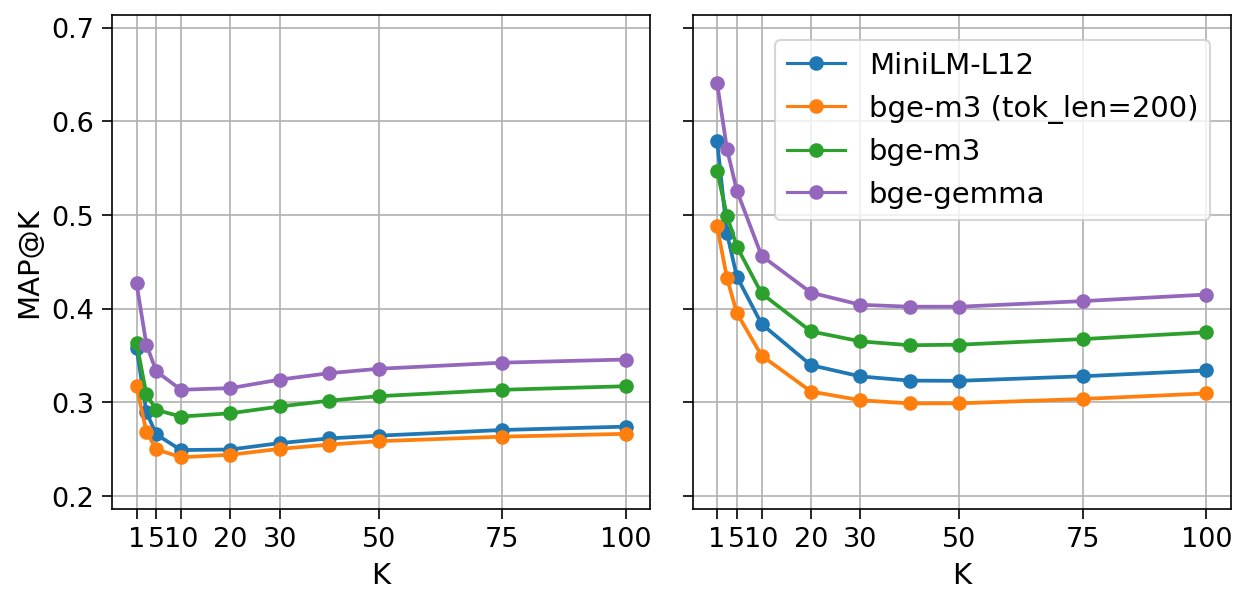
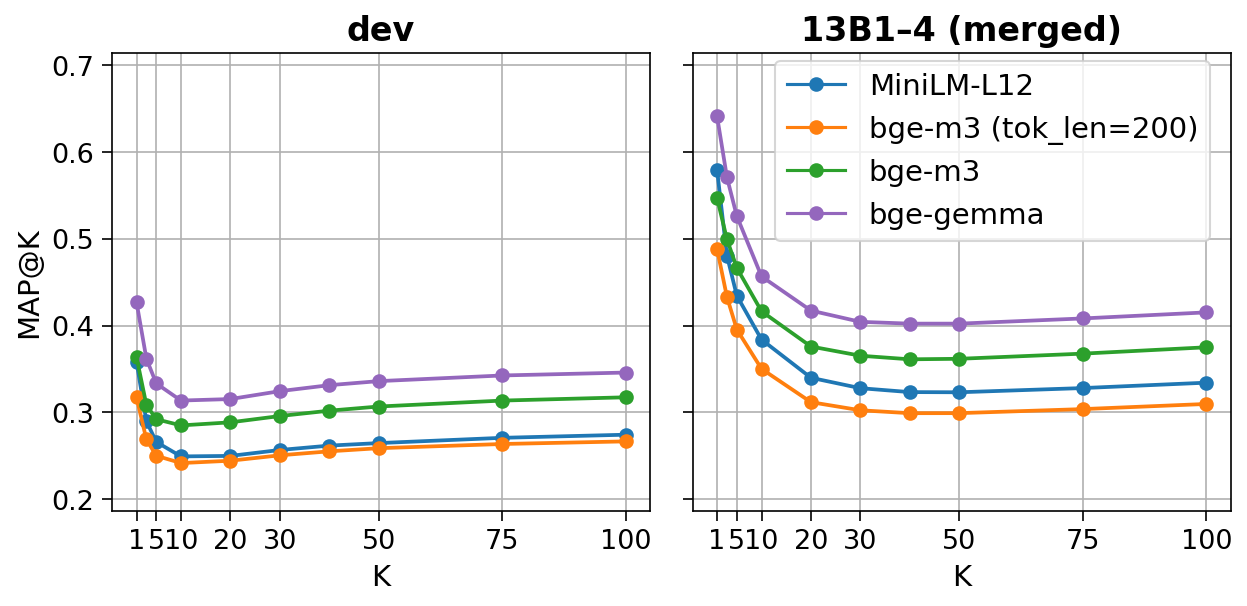
workingnotes

diff --git a/notebooks/workflow_baseline_full_run_report.py b/notebooks/workflow_baseline_full_run_report.py
@@ -6,7 +6,7 @@
 #       extension: .py
 #       format_name: percent
 #       format_version: '1.3'
-#       jupytext_version: 1.19.1
+#       jupytext_version: 1.19.3
 #   kernelspec:
 #     display_name: dicty (Python 3.14 venv)
 #     language: python
@@ -1327,6 +1327,7 @@ with plt.rc_context(WORKINGNOTE_FIG_RC):
                 color=colors_rerank[method_name],
                 label=RERANK_MODEL_LEGEND_SHORT.get(method_name, method_name),
             )
+        ax.set_title(panel_label, fontsize=16, fontweight="bold")
         ax.set_ylim(y_min, y_max)
         ax.grid(True, axis="y")
         ax.grid(True, axis="x")
@@ -1350,7 +1351,7 @@ with plt.rc_context(WORKINGNOTE_FIG_RC):
     fig.legend(
         handles=legend_handles_c,
         loc="upper right",
-        bbox_to_anchor=(0.97, 0.94),
+        bbox_to_anchor=(0.97, 0.91),
         fontsize=14,
     )
     plt.tight_layout()
